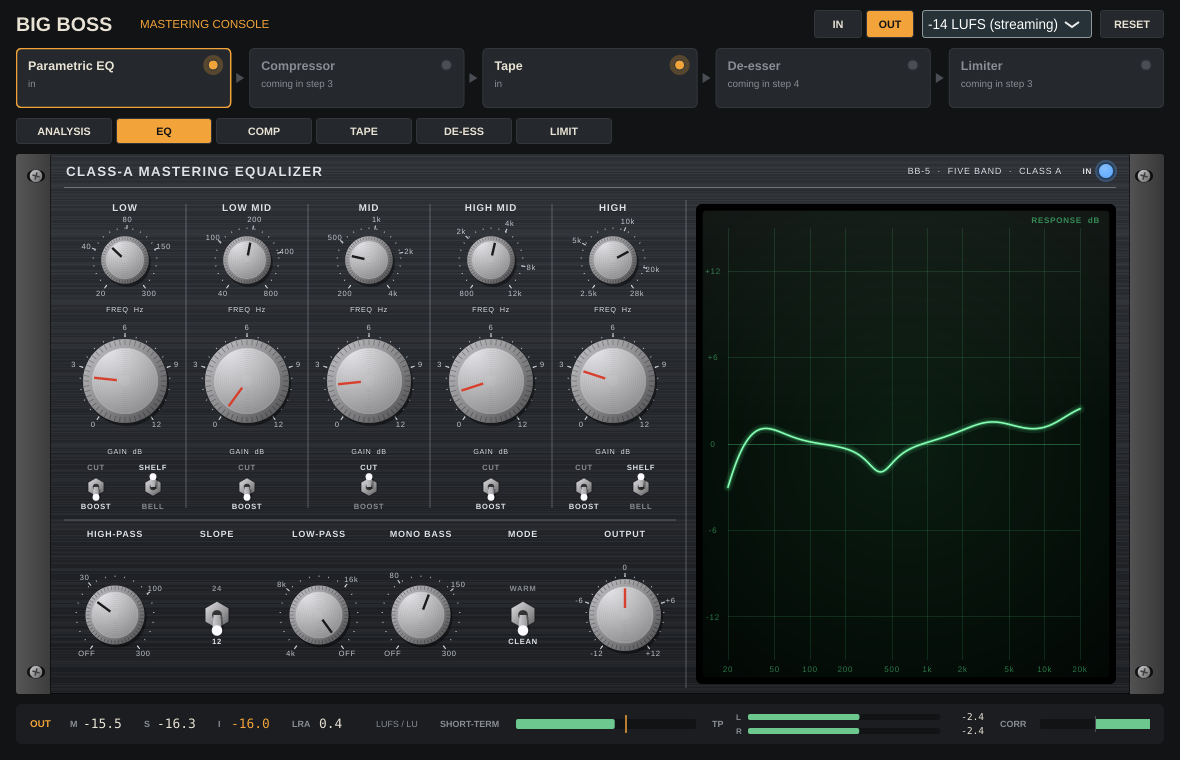
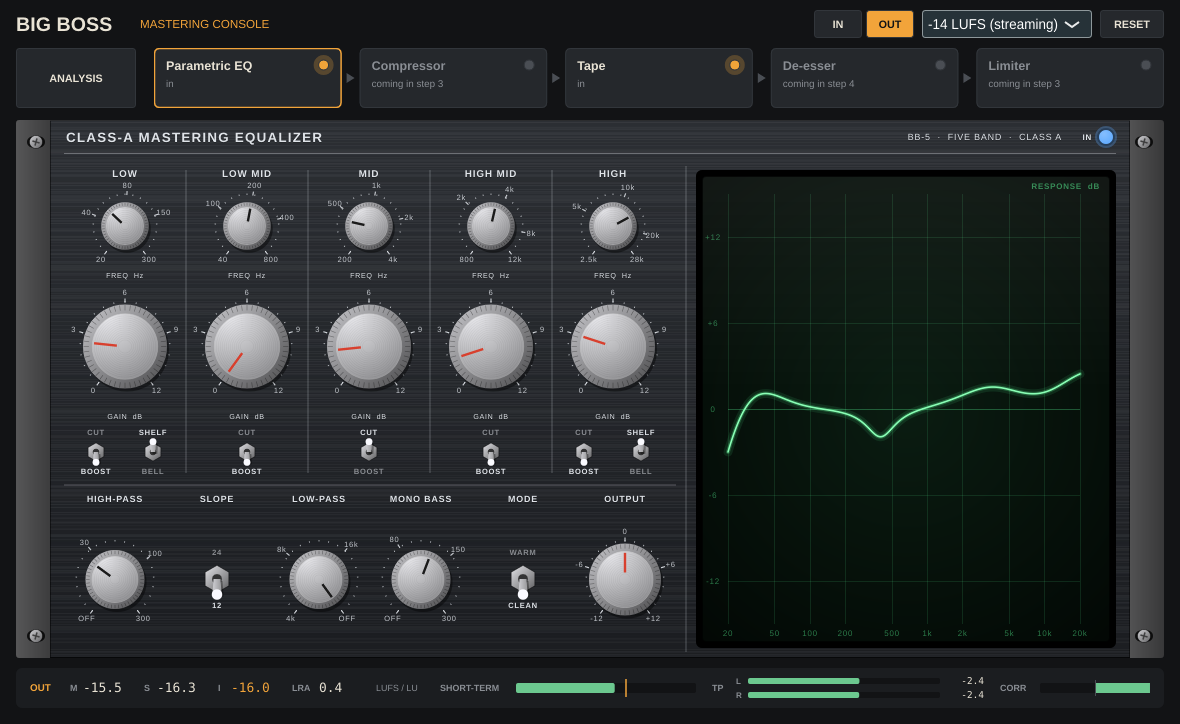
Merge the tab row into the chain strip
The module tiles already select their rack unit, so the separate tab row
repeated them. ANALYSIS now sits as a tile at the head of the chain.

Claude-Session: https://claude.ai/code/session_017aj5rhjjRAC7gAn9YDWbqa

diff --git a/src/plugin/PluginEditor.cpp b/src/plugin/PluginEditor.cpp
@@ -6,10 +6,6 @@
 
 using namespace bbui;
 
-namespace
-{
-const char* const kTabNames[BigBossEditor::kNumTabs] = { "ANALYSIS", "EQ", "COMP", "TAPE", "DE-ESS", "LIMIT" };
-}
 
 BigBossEditor::BigBossEditor (BigBossProcessor& p) : AudioProcessorEditor (&p), proc (p)
 {
@@ -42,14 +38,9 @@ BigBossEditor::BigBossEditor (BigBossProcessor& p) : AudioProcessorEditor (&p), 
     chain.onSelect = [this] (int s) { showTab (1 + s); };
     addAndMakeVisible (chain);
 
-    for (int t = 0; t < kNumTabs; ++t)
-    {
-        auto& b = tabs[(size_t) t];
-        b.setButtonText (kTabNames[t]);
-        b.setClickingTogglesState (false);
-        b.onClick = [this, t] { showTab (t); };
-        addAndMakeVisible (b);
-    }
+    analysisButton.setClickingTogglesState (false);
+    analysisButton.onClick = [this] { showTab (0); };
+    addAndMakeVisible (analysisButton);
 
     setupKnob (inTrim, pid::inTrim, "INPUT");
     setupKnob (outTrim, pid::outTrim, "OUTPUT");
@@ -109,7 +100,7 @@ BigBossEditor::BigBossEditor (BigBossProcessor& p) : AudioProcessorEditor (&p), 
     // last, so every child (the knobs' text boxes too) is rebuilt with the console's look; the rack
     // units keep their own
     setLookAndFeel (&look);
-    setSize (1180, 760);
+    setSize (1180, 724);
     showTab (proc.editorTab);
     startTimerHz (30);
 }
@@ -118,7 +109,7 @@ void BigBossEditor::showTab (int t)
 {
     tab = juce::jlimit (0, kNumTabs - 1, t);
     proc.editorTab = tab;
-    for (int i = 0; i < kNumTabs; ++i) tabs[(size_t) i].setToggleState (i == tab, juce::dontSendNotification);
+    analysisButton.setToggleState (tab == 0, juce::dontSendNotification);
     const bool analysis = tab == 0;
     for (juce::Component* c : std::initializer_list<juce::Component*> { &meters, &spectrum, &gonio, &inTrim.slider, &inTrim.label,
                                                                          &outTrim.slider, &outTrim.label })
@@ -209,15 +200,11 @@ void BigBossEditor::resized()
     inButton.setBounds (header.removeFromRight (48));
 
     r.reduce (16, 0);
-    chain.setBounds (r.removeFromTop (60));
-    r.removeFromTop (10);
-    auto tabRow = r.removeFromTop (26);
-    for (auto& b : tabs)
-    {
-        b.setBounds (tabRow.removeFromLeft (96));
-        tabRow.removeFromLeft (4);
-    }
-    r.removeFromTop (10);
+    auto chainRow = r.removeFromTop (60);
+    analysisButton.setBounds (chainRow.removeFromLeft (120));
+    chainRow.removeFromLeft (18);
+    chain.setBounds (chainRow);
+    r.removeFromTop (12);
     r.removeFromBottom (16);
 
     // module tabs: the rack unit over the meter strip

diff --git a/src/plugin/PluginEditor.h b/src/plugin/PluginEditor.h
@@ -8,8 +8,9 @@
 #include "ui/Rack.h"
 #include "ui/Spectrum.h"
 
-// The console: header, chain strip and a row of tabs. ANALYSIS is the metering dashboard; every
-// module has its own tab, drawn as a rack unit, with a slim loudness and peak strip under it.
+// The console: header, then the ANALYSIS button and the chain strip, which double as the tabs.
+// ANALYSIS is the metering dashboard; clicking a module shows it as a rack unit, with a slim
+// loudness and peak strip under it.
 class BigBossEditor final : public juce::AudioProcessorEditor, private juce::Timer
 {
 public:
@@ -38,7 +39,7 @@ private:
     BigBossProcessor& proc;
     bbui::Look look;
     bbui::ChainStrip chain;
-    std::array<juce::TextButton, kNumTabs> tabs;
+    juce::TextButton analysisButton { "ANALYSIS" };
     int tab = 0;
 
     // analysis

diff --git a/README.md b/README.md
@@ -2,7 +2,7 @@
 
 A mastering console as one VST3: detailed loudness and level metering, and a chain modelled on mastering hardware rather than on other plugins.
 
-The console opens on the **ANALYSIS** dashboard. Every module has its own tab, drawn as a rack unit, with a slim loudness and peak strip under it so levels stay in view. Clicking a module in the chain strip opens its tab.
+The console opens on the **ANALYSIS** dashboard. The chain strip doubles as the tabs: click a module to show it as a rack unit, with a slim loudness and peak strip under it so levels stay in view, and click **ANALYSIS** to go back.
 
 ![Analysis dashboard](docs/screenshot.png)
 
@@ -23,7 +23,7 @@ None of the hardware has public schematics, so the models are voiced from publis
 
 ## The chain
 
-Five slots: **Parametric EQ, Compressor, Tape, De-esser, Limiter**. Click a module to open its tab, drag it to reorder it, click its lamp (or the IN lamp on its rack unit) to bypass it. The EQ and Tape are built; the other slots pass audio through untouched until their step lands.
+Five slots: **Parametric EQ, Compressor, Tape, De-esser, Limiter**. Click a module to open its rack unit, drag it to reorder it, click its lamp (or the IN lamp on its rack unit) to bypass it. The EQ and Tape are built; the other slots pass audio through untouched until their step lands.
 
 - **Latency never changes.** It is the sum of every module's latency, whatever is bypassed or reordered, so the host's delay compensation stays put. A bypassed module's dry path is delayed by the same amount.
 - **Bypass is a 10 ms crossfade**, and bypassed modules keep running, so switching one back in is seamless.
@@ -102,7 +102,7 @@ Linux needs: `libasound2-dev libfreetype-dev libfontconfig1-dev libx11-dev libxc
 - `bb_module_tests`: the EQ is flat when idle, its audio matches the drawn curve within 0.1 dB, boosts are broader than cuts, and the high-pass, mono bass, Warm's 2nd harmonic, click-free switching and reported latency all check out. The tape machine puts 3% THD at each tape's MOL, has unity small-signal gain, reports its true latency, distorts more on 456 than GP9 and more under-biased than over, holds more top end at 30 ips, has its head bump, keeps wow and flutter within spec, switches without clicks, and keeps level constant under Link. Each at several sample rates.
 - `bb_fuzz [seconds]`: random rates, block sizes, extreme signals, bypass and order changes, and random EQ and tape settings through the chain and both meter suites; fails on any non-finite value.
 - pluginval at strictness 10: `pluginval --strictness-level 10 --validate-in-process "build/BigBoss_artefacts/Release/VST3/Big Boss Mastering Console.vst3"` (on Linux, under `xvfb-run -a`).
-- `-DBB_BUILD_SNAPSHOT=ON` builds `bb_snapshot out.png [seconds]`, which runs a synthetic mix through the console and renders every tab to PNGs (`out.png`, `out-eq.png`, `out-tape.png` and so on; the screenshots above).
+- `-DBB_BUILD_SNAPSHOT=ON` builds `bb_snapshot out.png [seconds]`, which runs a synthetic mix through the console and renders the dashboard and every module to PNGs (`out.png`, `out-eq.png`, `out-tape.png` and so on; the screenshots above).
 
 GitHub Actions (`.github/workflows/build.yml`) runs **only when started by hand**: Actions → Build → Run workflow (Windows, or all platforms). It never runs on push or on pull requests.
 
